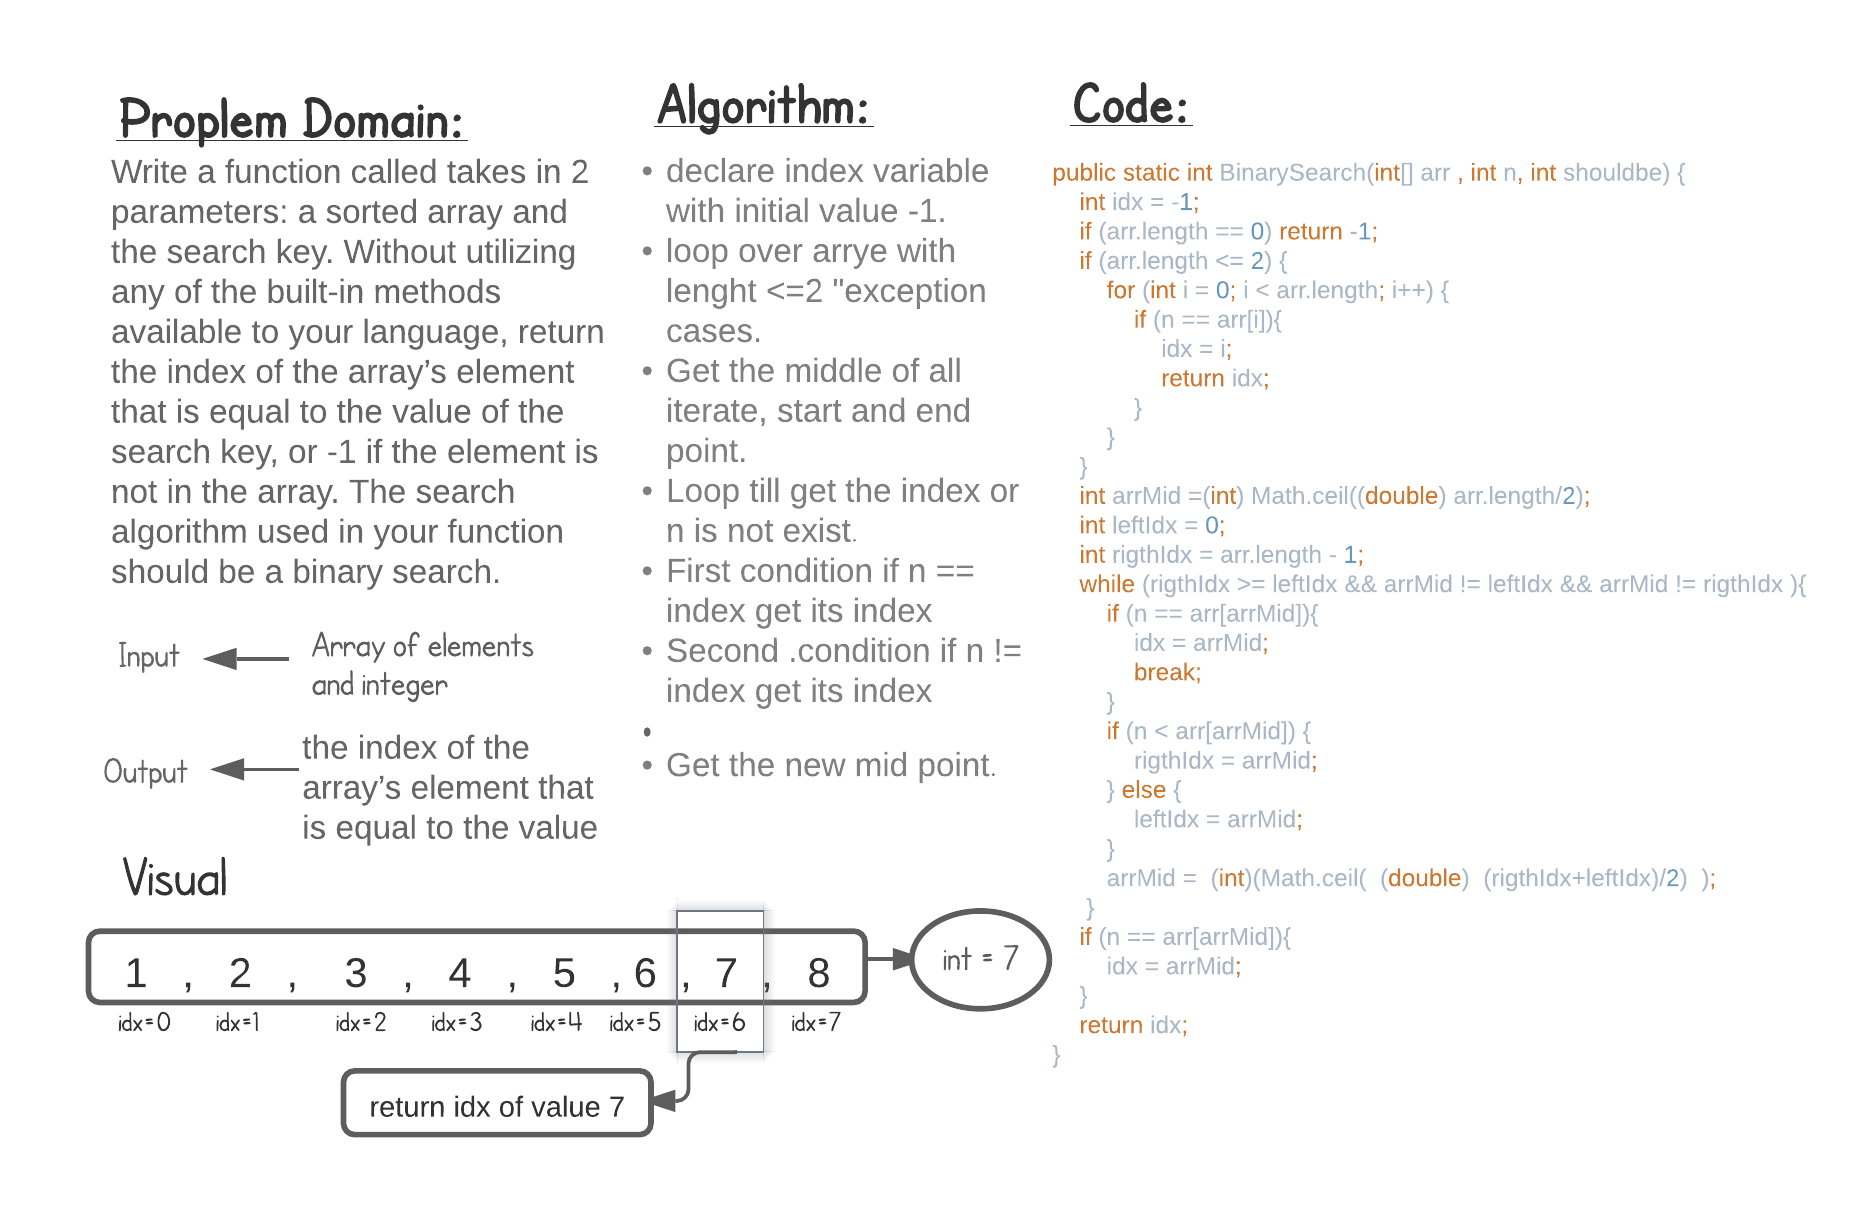
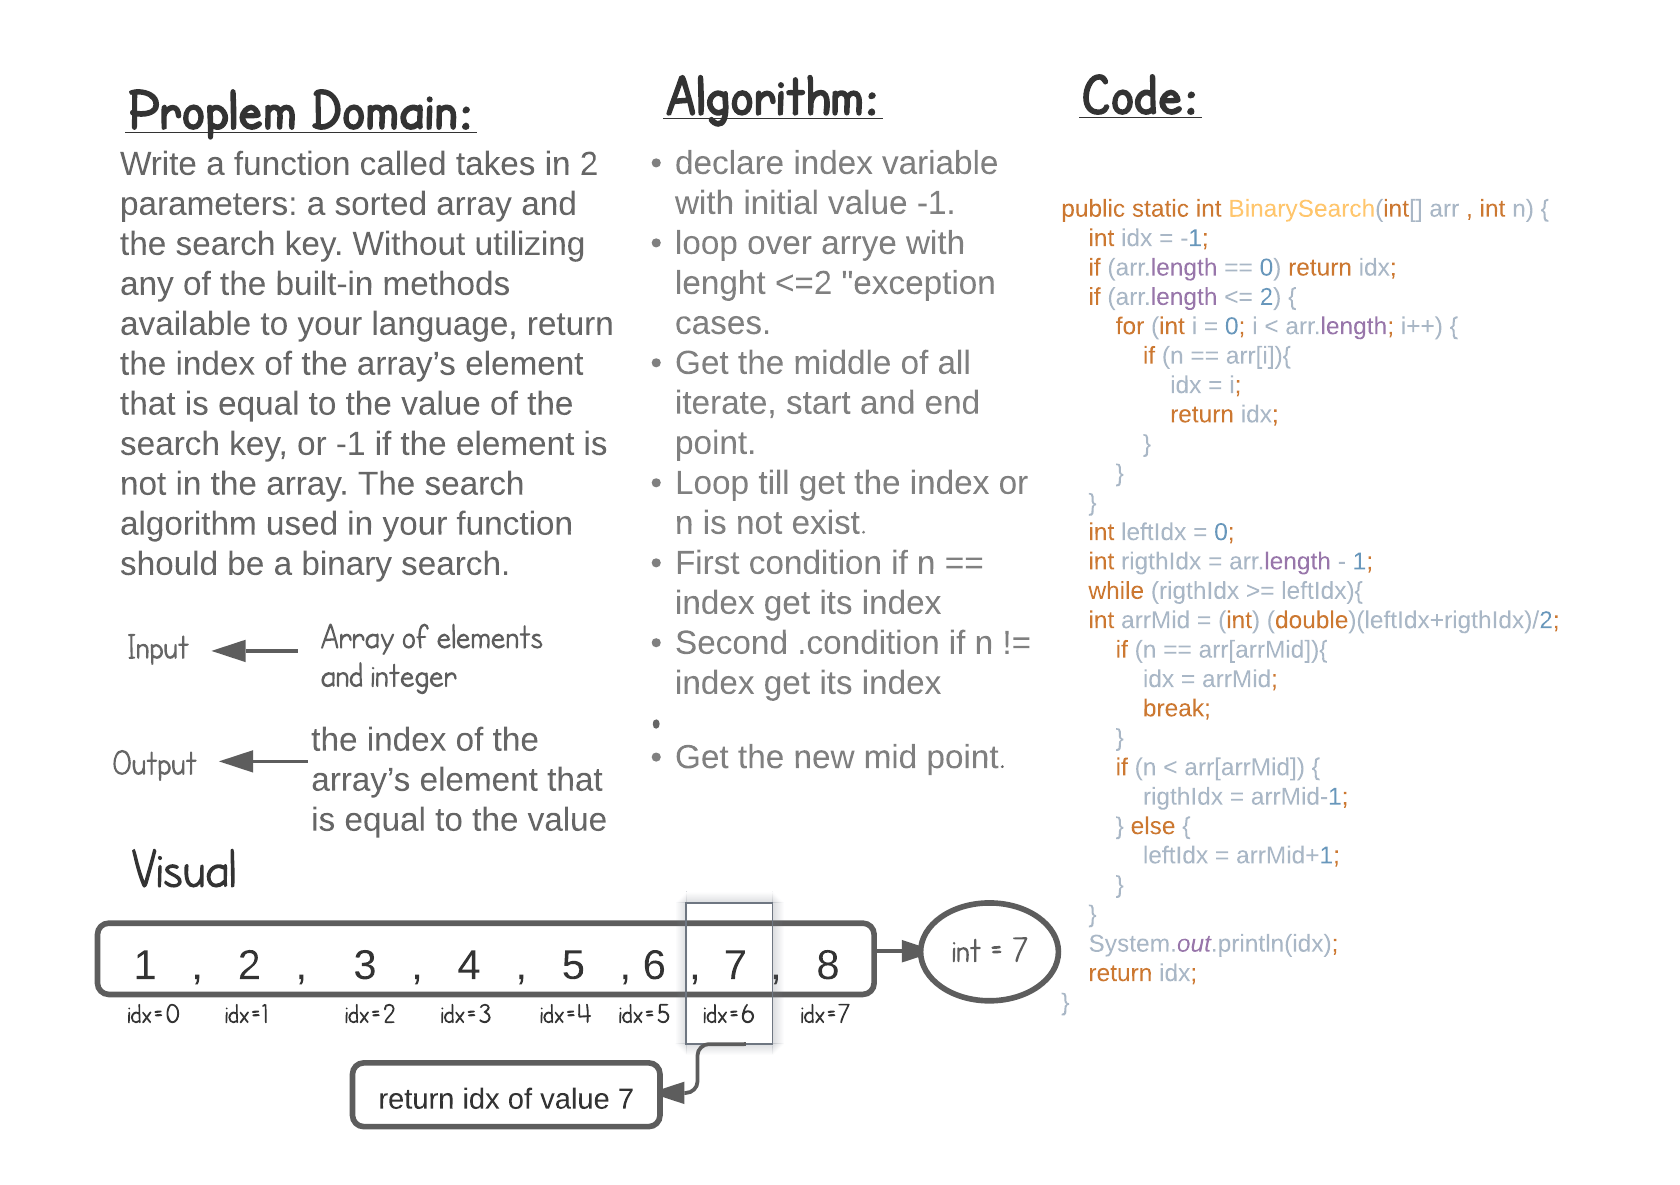
fix bainary seach code

Changed region(s): [[0.031, 0.0624, 0.9595, 0.9679], [0.681, 0.3435, 0.7738, 0.3747]]

diff --git a/array-binary-search/BinarySearch.java b/array-binary-search/BinarySearch.java
@@ -43,34 +43,30 @@ public class BinarySearch {
         int[] arr14= {1,2,3,4,5};
         int n14 = 4;
 
-        BinarySearch(arr1 , n1 , 2);
-        BinarySearch(arr2 , n2, -1);
-        BinarySearch(arr3 , n3 , 6);
-        BinarySearch(arr4 , n4 , 0);
-        BinarySearch(arr5 , n5, -1);
-        BinarySearch(arr6 , n6, -1);
-        BinarySearch(arr7 , n7 , 0);
-        BinarySearch(arr8 , n8 , 4);
-        BinarySearch(arr9 , n9 , 0);
-        BinarySearch(arr10 ,n10, 2);
-        BinarySearch(arr11 ,n11, 1);
-        BinarySearch(arr12 ,n12, 0);
-        BinarySearch(arr13,n13, -1);
-        BinarySearch(arr14 ,n14, 3);
+        BinarySearch(arr1 , n1 );
+        BinarySearch(arr2 , n2);
+        BinarySearch(arr3 , n3 );
+        BinarySearch(arr4 , n4 );
+        BinarySearch(arr5 , n5);
+        BinarySearch(arr6 , n6);
+        BinarySearch(arr7 , n7 );
+        BinarySearch(arr8 , n8 );
+        BinarySearch(arr9 , n9 );
+        BinarySearch(arr10 ,n10);
+        BinarySearch(arr11 ,n11);
+        BinarySearch(arr12 ,n12);
+        BinarySearch(arr13,n13);
+        BinarySearch(arr14 ,n14);
 
     }
 
-    public static int BinarySearch(int[] arr , int n, int shouldBe) {
+    public static int BinarySearch(int[] arr , int n) {
         int idx = -1;
-        if (arr.length == 0) {
-            System.out.println(idx + " should be "+ shouldBe);
-            return idx;
-        }
+        if (arr.length == 0) return idx;
         if (arr.length <= 2) {
             for (int i = 0; i < arr.length; i++) {
                 if (n == arr[i]){
                     idx = i;
-                    System.out.println(idx + " should be "+ shouldBe);
                     return idx;
                 }
             }
@@ -89,6 +85,6 @@ public class BinarySearch {
                 leftIdx = arrMid+1;
             }
         }
-        System.out.println(idx + " should be "+ shouldBe);
+        System.out.println(idx);
         return idx;
     }}

diff --git a/array-binary-search/out/production/array-binary-search/README.md b/array-binary-search/out/production/array-binary-search/README.md
@@ -1,0 +1,10 @@
+# Array Binary Search
+
+Write a function called `BinarySearch` which takes in 2 parameters: a sorted array and the search key. Without utilizing any of the built-in methods available to your language, return the index of the array’s element that is equal to the value of the search key, or -1 if the element is not in the array.
+
+> NOTE: The search algorithm used in your function should be a binary search.
+> Check the Resources section for details
+
+## Whiteboard Process
+
+![array-binary-search](../array-binary-search/img/BinarySearch.png)
